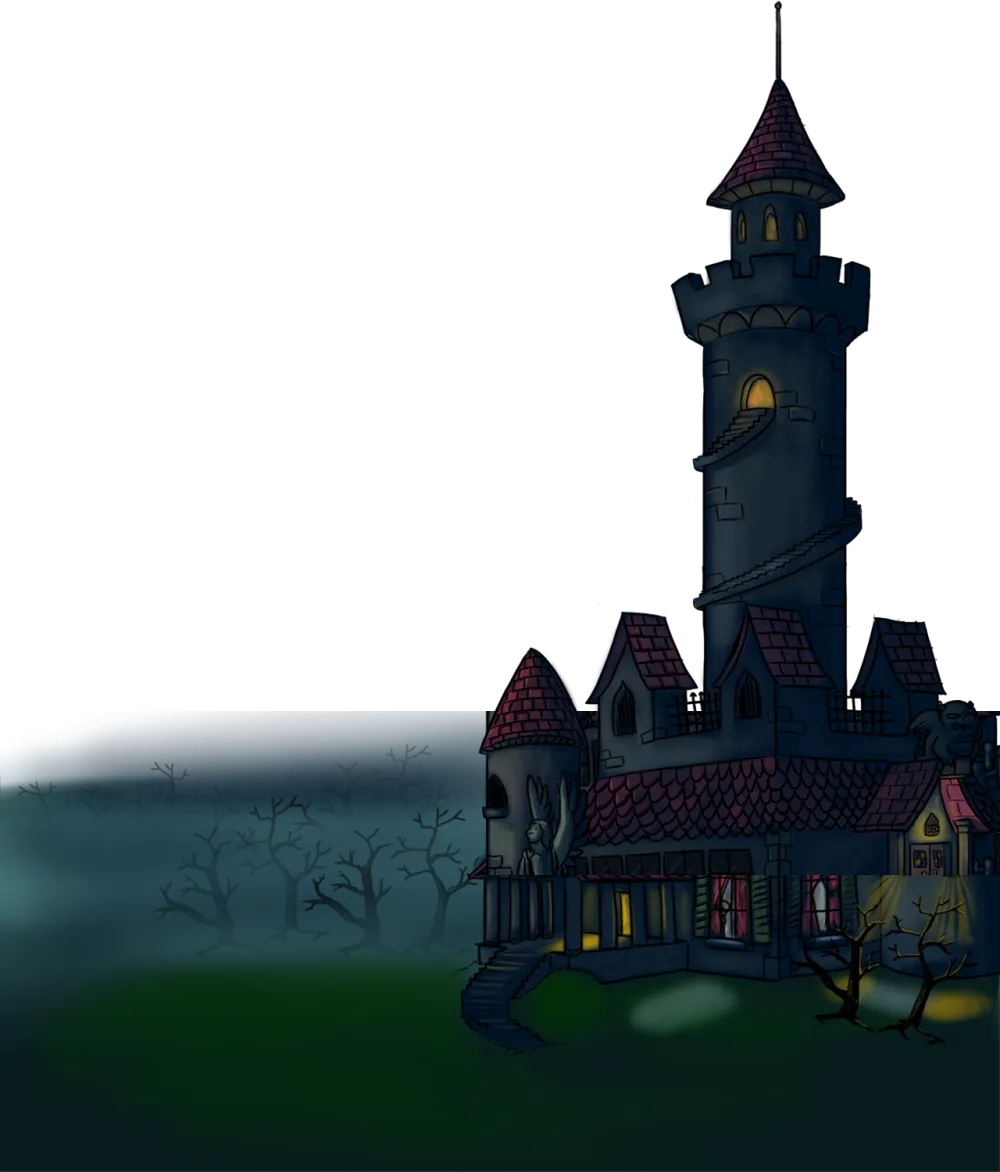
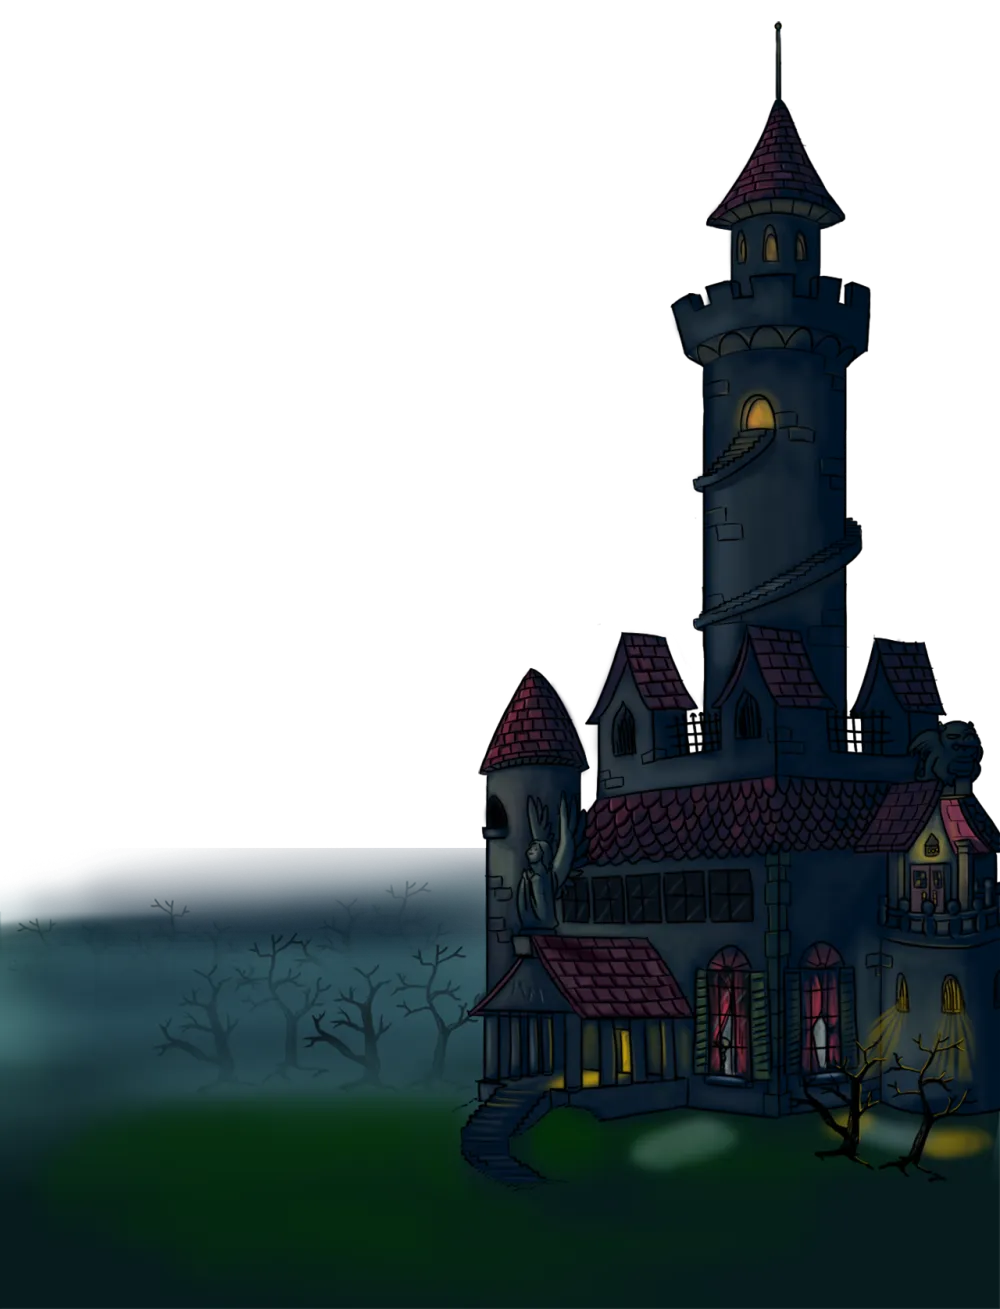
Side quests: game-accurate Midnight Mansion scene, RTK fixes
- Midnight Mansion: mansion rebuilt at the title screen's own coordinates
  (tower behind the house, no seam), animated MM flag on the spire, Jack
  with his lantern at the foot of the steps, block sized so nothing clips
- Henry Malone on the board, with a note that he's a new playable character
- Board shadow follows the planks; Open Mansion centred; After Midnight
  centred under the logo; dropped the "lights on" line
- RTK: clean logo and mentor portrait from the game files, mentor face
  centred and facing the text, label in the site font away from the logo

diff --git a/style.css b/style.css
@@ -325,6 +325,9 @@ html.stone-mode { filter: invert(1) hue-rotate(180deg); }
 .sq-head { font-family: var(--chunky); font-weight: 700; font-size: 26px; color: var(--brown-300); margin: 0 0 6px; text-transform: lowercase; }
 .sq-intro { color: var(--cream-2); max-width: 40em; font-size: 16px; margin: 0 0 34px; }
 .sq-intro a { color: var(--cream); }
+.sq-label { display: inline-block; margin: 0; font: 700 15px/1 var(--chunky); color: var(--cream); background: var(--brown-900); padding: 8px 12px; box-shadow: 3px 3px 0 rgba(0,0,0,.45); }
+.sq-label span { font-family: var(--round); font-weight: 400; font-size: 13px; color: var(--cream-2); margin-left: 8px; }
+.rtk .sq-label { display: table; margin: 0 auto 0 0; }
 .sq-note { margin: 40px 0 0; font-size: 14px; line-height: 1.7; color: var(--cream-2); max-width: 52em; }
 .sq-note b { color: var(--brown-300); font-weight: 400; }
 
@@ -333,18 +336,14 @@ html.stone-mode { filter: invert(1) hue-rotate(180deg); }
   background: url("img/gh/rtk/city.webp") center / cover; }
 .rtk::before { content: ""; position: absolute; inset: 0; z-index: -1; background: radial-gradient(ellipse at 50% 30%, rgba(20,40,10,.15), rgba(15,25,5,.65)); }
 .rtk .wrap { max-width: 860px; text-align: center; }
-.rtk-logo { width: min(330px, 70%); margin: 0 auto -8px; filter: drop-shadow(0 6px 10px rgba(0,0,0,.45)); }
-.rtk-chapter { margin: 0 0 26px; font: 900 clamp(30px, 5vw, 46px)/1.05 "Arial Black", "Arial Bold", Arial, sans-serif; }
-.rtk-chapter span, .rtk-chapter small { display: block; background: linear-gradient(#fff6b0, #ffd23a 45%, #e59a10); -webkit-background-clip: text; background-clip: text; color: transparent;
-  -webkit-text-stroke: 1.5px #5a3205; filter: drop-shadow(0 3px 0 rgba(60,30,0,.6)); }
-.rtk-chapter small { font-size: .62em; margin-top: 6px; background: linear-gradient(#fff, #f3ead2); -webkit-background-clip: text; background-clip: text; -webkit-text-stroke: 1px #3a2a12; }
+.rtk-logo { width: min(340px, 72%); margin: 8px auto 26px; filter: drop-shadow(0 6px 10px rgba(0,0,0,.45)); }
 .rtk-dlg { position: relative; margin: 0 auto 16px; max-width: 680px; padding: 16px 26px 14px; text-align: center;
   background: linear-gradient(#fdf8ec, #f1e3c4); border: 3px solid #c79a4e; border-radius: 6px;
   box-shadow: 0 0 0 2px #6e4a1c, 0 8px 18px rgba(0,0,0,.4); color: #2e2416; font: 700 15.5px/1.5 "Trebuchet MS", Arial, sans-serif; }
 .rtk-dlg p { margin: 0; }
 .rtk-dlg.has-face { padding-left: 120px; text-align: left; }
-.rtk-face { position: absolute; left: -14px; top: 50%; width: 112px; height: 112px; transform: translateY(-50%); border-radius: 50%;
-  border: 5px solid #d9b46a; box-shadow: 0 0 0 2px #6e4a1c, 0 4px 10px rgba(0,0,0,.4); background: #3a7bbd; }
+.rtk-face { position: absolute; left: -14px; top: 50%; width: 112px; height: 112px; transform: translateY(-50%); border-radius: 50%; object-fit: cover;
+  border: 5px solid #d9b46a; box-shadow: 0 0 0 2px #6e4a1c, 0 4px 10px rgba(0,0,0,.4); background: radial-gradient(circle at 50% 35%, #7fc0ef, #3a7bbd); }
 .rtk-tap { display: block; margin-top: 8px; font-size: 12.5px; color: #7a5a2a; }
 .rtk-row { display: grid; grid-template-columns: 1.15fr 1fr; gap: 16px; margin: 26px 0 26px; align-items: start; }
 .rtk-tv { margin: 0; border: 4px solid #d9b46a; box-shadow: 0 0 0 2px #6e4a1c, 0 8px 18px rgba(0,0,0,.45); background: #000; }
@@ -365,32 +364,46 @@ html.stone-mode { filter: invert(1) hue-rotate(180deg); }
 /* Midnight Mansion: the game's title screen, rebuilt from its layers */
 .mm { position: relative; overflow: hidden; isolation: isolate; padding: 64px 0 80px; min-height: 760px; -webkit-font-smoothing: antialiased;
   background: #0b1630 url("img/gh/mm/stars.webp") center / cover; }
-.mm::after { content: ""; position: absolute; inset: 0; z-index: 0; pointer-events: none; box-shadow: inset 0 0 160px 40px rgba(0,0,0,.75); }
+.mm::after { content: ""; position: absolute; inset: 0; z-index: 0; pointer-events: none; box-shadow: inset 0 0 120px 20px rgba(0,0,0,.6); }
 .mm > img { position: absolute; pointer-events: none; }
 .mm-moon { width: 190px; left: 6%; top: 70px; z-index: 0; filter: drop-shadow(0 0 40px rgba(140,230,230,.45)); }
 .mm-cloud { z-index: 1; opacity: .5; animation: mm-drift 70s linear infinite; }
 .mm-cloud.c1 { width: 170px; top: 60px; left: -10%; }
 .mm-cloud.c2 { width: 190px; top: 220px; left: -20%; animation-duration: 95s; animation-delay: -40s; }
 @keyframes mm-drift { to { transform: translateX(130vw); } }
-.mm-house { z-index: 1; right: 0; bottom: 0; width: min(900px, 70vw); height: auto; max-width: none; -webkit-mask-image: linear-gradient(to right, transparent 0, #000 30%); mask-image: linear-gradient(to right, transparent 0, #000 30%); }
 .mm-fog { z-index: 2; left: 0; bottom: -20px; width: 100%; height: 300px; object-fit: cover; opacity: .85; -webkit-mask-image: linear-gradient(transparent, #000 45%); mask-image: linear-gradient(transparent, #000 45%); }
+.mm { min-height: calc(min(860px, 66vw) * 1.3086 + 10px); }
+.mm-scene { position: absolute; z-index: 1; right: 0; bottom: 0; width: min(860px, 66vw); aspect-ratio: 1280 / 1675; pointer-events: none; }
+.mm-scene .mm-house { position: absolute; inset: 0; width: 100%; height: 100%; -webkit-mask-image: linear-gradient(to right, transparent 0, #000 30%); mask-image: linear-gradient(to right, transparent 0, #000 30%); }
+.mm-scene.front { z-index: 3; }
+.mm-flag, .mm-jack { position: absolute; background-repeat: no-repeat; background-size: 100% 300%; animation-timing-function: steps(1, end); animation-iteration-count: infinite; }
+.mm-flag { left: 77.27%; top: 0; width: 7.8125%; aspect-ratio: 100 / 70; background-image: url("img/gh/mm/flag.webp"); animation-name: mm-frames; animation-duration: .57s; }
+.mm-jack { left: 50%; top: 88%; width: 12.5%; aspect-ratio: 160 / 96; background-image: url("img/gh/mm/jack.webp"); animation-name: mm-frames; animation-duration: .4s; }
+@keyframes mm-frames { 0% { background-position: 0 0; } 25% { background-position: 0 50%; } 50% { background-position: 0 100%; } 75% { background-position: 0 50%; } }
+.mm-new { display: flex; gap: 14px; align-items: center; margin: 4px 0 14px; padding: 10px 12px; background: rgba(20,10,4,.45); border: 1px solid rgba(241,223,138,.25); }
+.mm-new p { margin: 0 !important; font-size: 15px; }
+.mm-new b { font: 400 21px/1 "Black Chancery", serif; color: #f1df8a; }
+.mm-henry { flex: none; width: 74px; height: auto; filter: drop-shadow(0 3px 3px rgba(0,0,0,.6)); }
 .mm .wrap { z-index: 3; }
 .mm-col { max-width: 560px; }
 .mm-logo { width: 100%; filter: drop-shadow(0 4px 8px rgba(0,0,0,.6)); }
-.mm-sub { font: 400 40px/1 "Black Chancery", serif; color: #f1df8a; text-shadow: 0 2px 0 #3a2a05, 0 0 12px rgba(0,0,0,.8); margin: 4px 0 18px 46%; white-space: nowrap; }
-.mm-board { position: relative; padding: 26px 30px 22px; background: url("img/gh/mm/wood.webp") center / 100% 100%; border-radius: 4px;
-  box-shadow: 0 12px 26px rgba(0,0,0,.6); color: #f6ead0; font: 400 16px/1.6 Georgia, "Times New Roman", serif; text-shadow: 0 1px 2px rgba(0,0,0,.9); }
+.mm-sub { font: 400 40px/1 "Black Chancery", serif; color: #f1df8a; text-shadow: 0 2px 0 #3a2a05, 0 0 12px rgba(0,0,0,.8); margin: 4px 0 18px; text-align: center; }
+.mm-board { position: relative; padding: 26px 30px 22px; background: url("img/gh/mm/wood.webp") center / 100% 100% no-repeat;
+  filter: drop-shadow(0 10px 14px rgba(0,0,0,.6)); color: #f6ead0; font: 400 16px/1.6 Georgia, "Times New Roman", serif; text-shadow: 0 1px 2px rgba(0,0,0,.9); }
 .mm-board p { margin: 0 0 12px; }
 .mm-shot { width: 100%; margin: 6px 0 12px; border: 3px solid #2a170a; box-shadow: 0 0 0 1px #8a6234; }
 .mm-credit { font: 400 20px/1.3 "Black Chancery", serif; color: #f1df8a; margin: 0 !important; }
-.mm-open { position: relative; display: inline-block; margin: 18px 0 0 -6px; width: 300px; max-width: 100%; }
+
+.mm-open { position: relative; display: block; margin: 20px auto 0; width: 300px; max-width: 90%; }
 .mm-open img { width: 100%; filter: drop-shadow(0 2px 3px rgba(0,0,0,.8)); }
 .mm-open .hi { position: absolute; inset: 0; opacity: 0; transition: opacity .12s; }
+
 .mm-open:hover .hi, .mm-open:focus-visible .hi { opacity: 1; }
 @media (max-width: 880px) {
   .mm { min-height: 0; padding-bottom: 300px; }
-  .mm-house { width: 125%; right: 0; opacity: .95; }
-  .mm-sub { margin-left: 30%; font-size: 32px; }
+  .mm { min-height: 0; }
+  .mm-scene { width: 110%; }
+  .mm-sub { font-size: 32px; }
   .mm-moon { width: 120px; left: auto; right: 6%; top: 20px; }
 }
-@media (max-width: 480px) { .mm-board { padding: 20px 18px 16px; } .mm-sub { margin-left: 14%; } }
+@media (max-width: 480px) { .mm-board { padding: 20px 18px 16px; } }

diff --git a/index.html b/index.html
@@ -13,7 +13,7 @@
 <link rel="preconnect" href="https://fonts.googleapis.com">
 <link rel="preconnect" href="https://fonts.gstatic.com" crossorigin>
 <link href="https://fonts.googleapis.com/css2?family=Dancing+Script:wght@700&family=DotGothic16&family=Hind:wght@400;600&family=Press+Start+2P&family=Silkscreen:wght@400;700&family=VT323&display=swap" rel="stylesheet">
-<link rel="stylesheet" href="style.css?v=15">
+<link rel="stylesheet" href="style.css?v=20">
 <meta property="og:title" content="Brownie Digital">
 <meta property="og:description" content="Home-baked instruments, crunchy round the edges. First release: Microsampler 85', an 8-bit vintage sampler for Mac.">
 <meta property="og:image" content="https://uncleacid1.github.io/img/window-black-grille.jpg">
@@ -182,11 +182,11 @@
     <!-- Rule the Kingdom: the city, the logo, the advisor's dialog box -->
     <div class="rtk">
       <div class="wrap">
-        <img class="rtk-logo" src="img/gh/rtk/logo.webp" alt="Rule the Kingdom" width="420" height="291" loading="lazy">
-        <p class="rtk-chapter"><span>RTKContinued</span><small>The Story Continues</small></p>
+        <p class="sq-label">RTKContinued <span>a C++ port of Rule the Kingdom</span></p>
+        <img class="rtk-logo" src="img/gh/rtk/logo.webp" alt="Rule the Kingdom" width="419" height="267" loading="lazy">
 
         <div class="rtk-dlg has-face">
-          <img class="rtk-face" src="img/gh/rtk/advisor.webp" alt="" width="104" height="104" loading="lazy">
+          <img class="rtk-face" src="img/gh/rtk/mentor-face.webp" alt="" width="200" height="200" loading="lazy">
           <p><i>Rule the Kingdom</i> was a city-building RPG on Android from 2012, made by innoWate and put out by Game Insight. I played it for hours with my mom. It needed the publisher's servers for basically everything, so when those shut down the game just stopped working.</p>
         </div>
         <div class="rtk-dlg">
@@ -212,8 +212,10 @@
       <img class="mm-moon" src="img/gh/mm/moon.webp" alt="" aria-hidden="true" loading="lazy">
       <img class="mm-cloud c1" src="img/gh/mm/cloud1.webp" alt="" aria-hidden="true" loading="lazy">
       <img class="mm-cloud c2" src="img/gh/mm/cloud3.webp" alt="" aria-hidden="true" loading="lazy">
-      <img class="mm-house" src="img/gh/mm/mansion.webp" alt="" aria-hidden="true" loading="lazy">
+      <!-- mansion, flag and Jack at the title screen's own coordinates (1280 wide, shifted down 715px) -->
+      <div class="mm-scene" aria-hidden="true"><img class="mm-house" src="img/gh/mm/mansion.webp" alt="" loading="lazy"><span class="mm-flag"></span></div>
       <img class="mm-fog" src="img/gh/mm/fog.webp" alt="" aria-hidden="true" loading="lazy">
+      <div class="mm-scene front" aria-hidden="true"><span class="mm-jack"></span></div>
       <div class="wrap">
         <div class="mm-col">
           <img class="mm-logo" src="img/gh/mm/logo.webp" alt="Midnight Mansion HD" width="888" height="128" loading="lazy">
@@ -222,7 +224,8 @@
             <p><i>Midnight Mansion HD</i> is Vern Jensen's puzzle platformer from 2011: Jack Malone sneaking through haunted mansions full of levers, keys, secret passages, Medusas and spiders. The Mac version doesn't run on new Macs anymore, so I rebuilt it from the original release.</p>
             <p>With the new options off it plays exactly like the original. Turn them on and you get 2–4 player split screen, co-op, a ghost race mode, LAN and online play with friend codes, 89 community mansions, and dumb stuff like moon gravity and <i>Oops! All Spiders</i>. Runs on Mac, Linux, and somehow a PS3.</p>
             <img class="mm-shot" src="img/gh/mm/split4.webp" alt="Four players in split screen in the same mansion room" width="640" height="480" loading="lazy">
-            <p class="mm-credit">Midnight Mansion was created by Vern Jensen. This is me keeping the lights on.</p>
+            <div class="mm-new"><img class="mm-henry" src="img/gh/mm/henry.webp" alt="Henry Malone, arms crossed" width="91" height="129" loading="lazy"><p><b>Meet Henry Malone.</b> He's a whole new playable character I designed for After Midnight, and he's player 2 by default, with his own sprites, so you can always tell who's who in split screen.</p></div>
+            <p class="mm-credit">Midnight Mansion was created by Vern Jensen.</p>
           </div>
           <a class="mm-open" href="https://github.com/UncleAcid1/after-midnight" target="_blank" rel="noopener" aria-label="Open After Midnight on GitHub"><img src="img/gh/mm/btn-open.webp" alt="" width="360" height="60"><img class="hi" src="img/gh/mm/btn-open-hi.webp" alt="" width="360" height="60"></a>
         </div>
